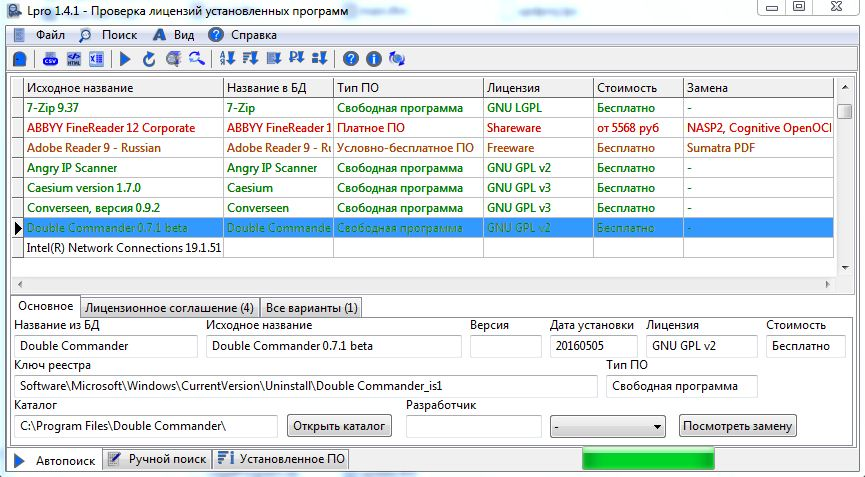
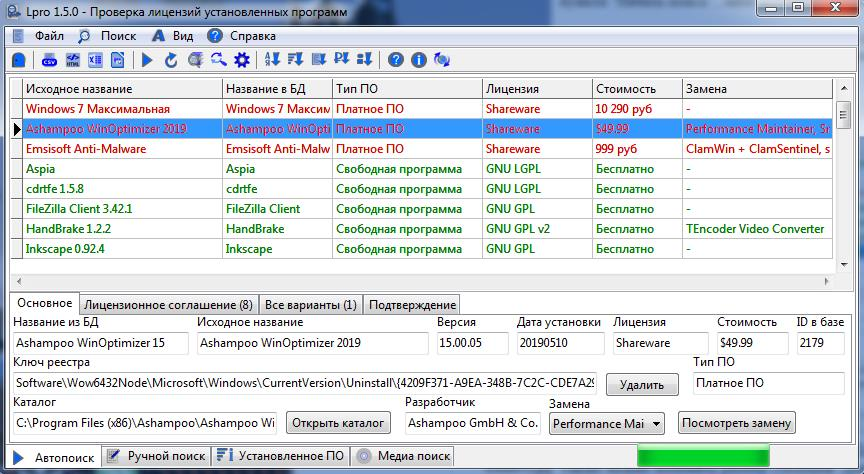
Add files via upload

diff --git a/help/avtopoisk.html b/help/avtopoisk.html
@@ -12,11 +12,13 @@
 лишней информации (версия и т.п.) и осуществляет поиск в базе
 данных. Найденные совпадения отображаются в таблице. При выделении
 строки отображается подробная информация о ней (Освновное, Лицензионное
-соглашение, Все варианты).<br>
-<img style="width: 606px; height: 355px;" alt="Найденные совпадения в базе данных" title="Найденные совпадения в базе данных" src="Avto-poisk.jpg"><br>
+соглашение, Все варианты, Подтверждение).<br>
+<img style="width: 306px;" alt="Найденные совпадения в базе данных" title="Найденные совпадения в базе данных" src="Avto-poisk.jpg"><br>
+Вкладка "Подтверждение" отображает исполняемый файл программы (если он был найден), что позволяет удостовериться, что она определена корректно.<br><br>
 Столбцы таблицы можно менять местами. Для этого необходимо навести
 курсор на заголовок столбца, зажать левую кнопку мыши и повести влево,
 или вправо.<br>
+Содержимое таблицы можно сортировать не только при помощи меню "Вид", но и при помощи нажатия левой кнопкой мыши по заголовку колонки.<br>
 Также можно изменять размер столбцов. Для этого необходимо навести
 курсор на правую или левую границу столбца в строке с заголовком, как
 только курсор изменится, можно тянуть влево, или вправо.<br>
@@ -45,6 +47,7 @@
 В данный момент поддерживается:<br>
 экспорт в CSV;<br>
 экспорт в HTML;<br>
+передача в LibreOffice Calc;<br>
 передача в Microsoft Excel.<br>
 <br>
 <h3>Экспорт в CSV</h3>
@@ -55,7 +58,7 @@ CSV", либо при помощи&nbsp;<img style="width: 18px; height: 19px;" 
 открыть при помощи такого табличного процессора как LibreOffice Calc
 (он открывает наиболее корректно). Также можно открыть современными
 версиями Microsoft Excel.<br>
-<img style="width: 589px; height: 256px;" alt="CSV в LibreOffice Calc" title="CSV в LibreOffice Calc" src="CSV2.jpg"><br>
+<img style="width: 389px;" alt="CSV в LibreOffice Calc" title="CSV в LibreOffice Calc" src="CSV2.jpg"><br>
 <br>
 <h3>Экспорт в HTML</h3>
 Экспортированный отчет в формате HTML сегодня можно открыть практически
@@ -69,11 +72,19 @@ Chrome, Opera, Internet Explorer и др.). Теги используются с
 <br>
 <h3>Передача в Microsoft Excel</h3>
 Существует возможность передать содержимое таблицы в MS Excel без
-сохранения файла. В данный момент поддерживается передача только в
-Microsoft Excel. Для осуществления данной функциональной возможности
+сохранения файла. Для осуществления данной функциональной возможности
 необходимо открыть вкладку "Файл", и выбрать пункт " Передача в Excel",
 либо воспользоваться кнопкой <img style="width: 18px; height: 17px;" alt="Кнопка &quot;Передача в Excel&quot;" title="Кнопка &quot;Передача в Excel&quot;" src="Excel.jpg">.<br>
 <br>
+
+<h3>Передача в LibreOffice Calc</h3>
+Существует возможность передать содержимое таблицы в LibreOffice Calc без
+сохранения файла.Для осуществления данной функциональной возможности
+необходимо открыть вкладку "Файл", и выбрать пункт "Передача в LibreOffice",
+либо воспользоваться кнопкой <img style="width: 17px;" alt="Кнопка &quot;Передача в LibreOffice&quot;" title="Кнопка &quot;Передача в LibreOffice&quot;" src="LibreOffice.jpg">.<br>
+<br>
+
+
 <h2>Сортировка результатов автоматического поиска<br>
 </h2>
 Данные в таблице можно сортировать следующими способами:<br>

diff --git a/help/park-comp.html b/help/park-comp.html
@@ -1,0 +1,20 @@
+<!DOCTYPE html PUBLIC "-//W3C//DTD HTML 4.01//EN" "http://www.w3.org/TR/html4/strict.dtd">
+<html><head>
+<meta content="text/html; charset=Windows-1251" http-equiv="content-type"><title>Парк компьютеров</title></head><body>
+<h1>Использование Lpro в организации с большим парком компьютеров</h1>
+Начиная с версии 1.5.0 добавлена возможность запуска программы с параметром "-A" (Английская A). Параметр "-A" запускает автоматический поиск (согласно настроек - количество колонок, отображение неизвестных программ, пользовательская база) с сохранением отчета в указанную в настройках папку, после чего программа закрывается. На деле это происходит в течении нескольких секунд.<br>
+<br>
+Настройки хранятся в базе данных и поэтому их легко перенести, достаточно настроить программу как нужно и скопировать Lpro.db в папку с программой.<br>
+<br>
+В настройках программы можно указать папку для сохранения отчета в режиме запуска с параметром -A. Можно указать путь на компьютере, например, D:\. Можно указать путь к сетевой папке, например, \\ACER-BOOK\Users\Public. Можно оставить поле пустым, тогда отчет будет сохранен в папку с программой.<br>
+<br>
+Самый простой и надежный способ организовать регулярную проверку на рабочих станциях, это либо запускать Lpro с параметром -A через удаленное управление, либо добавить в автозагрузку ярлык с данным параметром. Единственный минус автозагрузки в том, что на момент выполнения проверки сеть может быть еще недоступна (если сохраняется в сеть), из-за чего отчет сохранится в папку с программой, так как не получится проверить существование папки.<br>
+Ярлык можно вручную перетащить при помощи мышки в Меню пуск \ все программы \ автозагрузка (при наведении папка должна открыться) либо открыть каталог C:\Users\ИМЯ-ПОЛЬЗОВАТЕЛЯ\AppData\Roaming\Microsoft\Windows\Start Menu\Programs\Startup и скопировать сюда вручную данный ярлык. Пример ярылка - "C:\Program Files\Lpro.exe" -A
+<br>
+
+<br>
+<br>
+<b>Внимание, указанный ниже способ не отлажен, поэтому возникают ошибки! Не рекомендуется!</b><br>
+<br>
+В ОС Windows включен планировщик заданий, который расположен Пуск \ все программы \ стандартные \ служебные \ планировщик заданий. Он позволяет создать задачу (не простую), указать ей имя, поставить галочку "выполнять с наивысшими правами" (для доступа к реестру нужны права администратора) указать как часто необходимо выполнять задачу, в действие указать "Запустить программу" и в поле "Программа или сценарий:" указываем ""D:\Public\lpro\Lpro 1.5.0\Lpro.exe" -A" либо в поле "Программа или сценарий:" указать "D:\Public\lpro\Lpro 1.5.0\Lpro.exe", а в поле "Добавить аргументы указать" - "-A". Можно просто создать ярлык и в поле объект указать ""D:\Public\lpro\Lpro 1.5.0\Lpro.exe" -A".<br>
+</body></html>

diff --git a/help/Settings.html b/help/Settings.html
@@ -8,6 +8,9 @@
 Также можно отключить отображение отдельных колонок в таблице. Стоит отметить, что некоторые колонки являются обязательными (помечены звездочкой *) и отключить их невозможно.<br>
 <br>
 
+Можно указать путь для сохранения отчета при использовании параметра -A.<br>
+<br>
+
 <h2>Ручной поиск</h2>
 В ручном поиске также можно отключить отображение отдельных колонок, и точно также некоторые являются обязательными.<br>
 По многочисленным просьбам добавлена возможность отмены запрета выбора всего раздела для поиска. Убрать запрет можно поставив галочку "Разрешить указывать весь раздел".<br>

diff --git a/help/media-poisk.html b/help/media-poisk.html
@@ -1,0 +1,13 @@
+<!DOCTYPE html PUBLIC "-//W3C//DTD HTML 4.01//EN" "http://www.w3.org/TR/html4/strict.dtd">
+<html><head>
+<meta content="text/html; charset=Windows-1251" http-equiv="content-type"><title>Медиа поиск</title></head><body>
+<h1>Медиа поиск</h1>
+Медиа поиск позволяет найти аудио и видео файлы в указанном каталоге. Он также отображает размер файла.<br>
+Файлы меньше мегабайта не рассматриваются.<br>
+<br>
+Для того, чтобы воспользоваться функцией медиа поиска необходимо
+открыть вкладку "Медиа поиск".<br>
+<img style="width: 612px; height: 338px;" alt="Медиа поиск" title="Медиа поиск" src="media.jpg"><br>
+
+
+</body></html>
